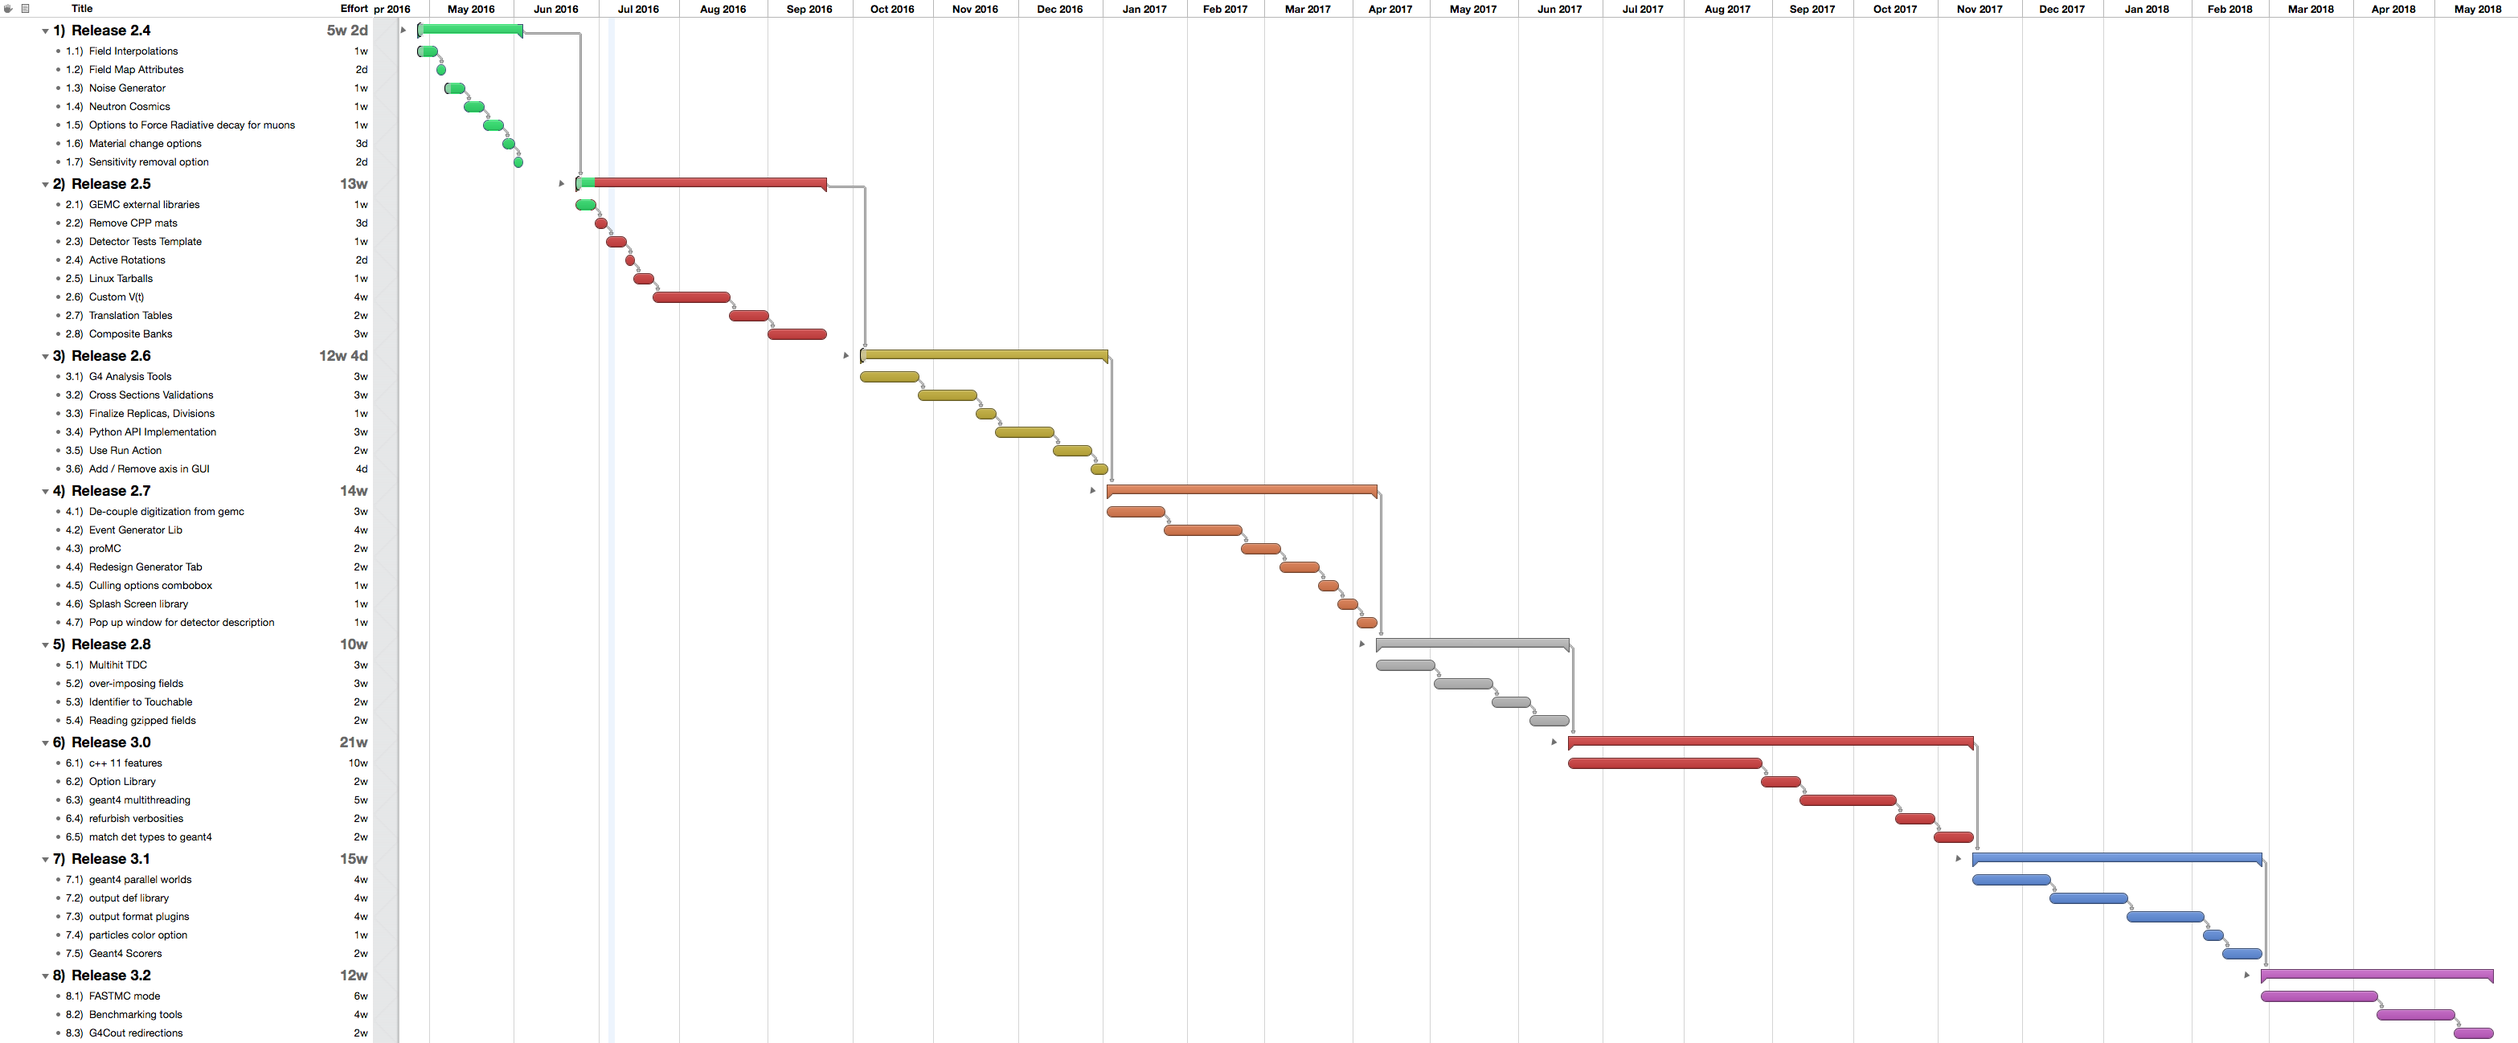
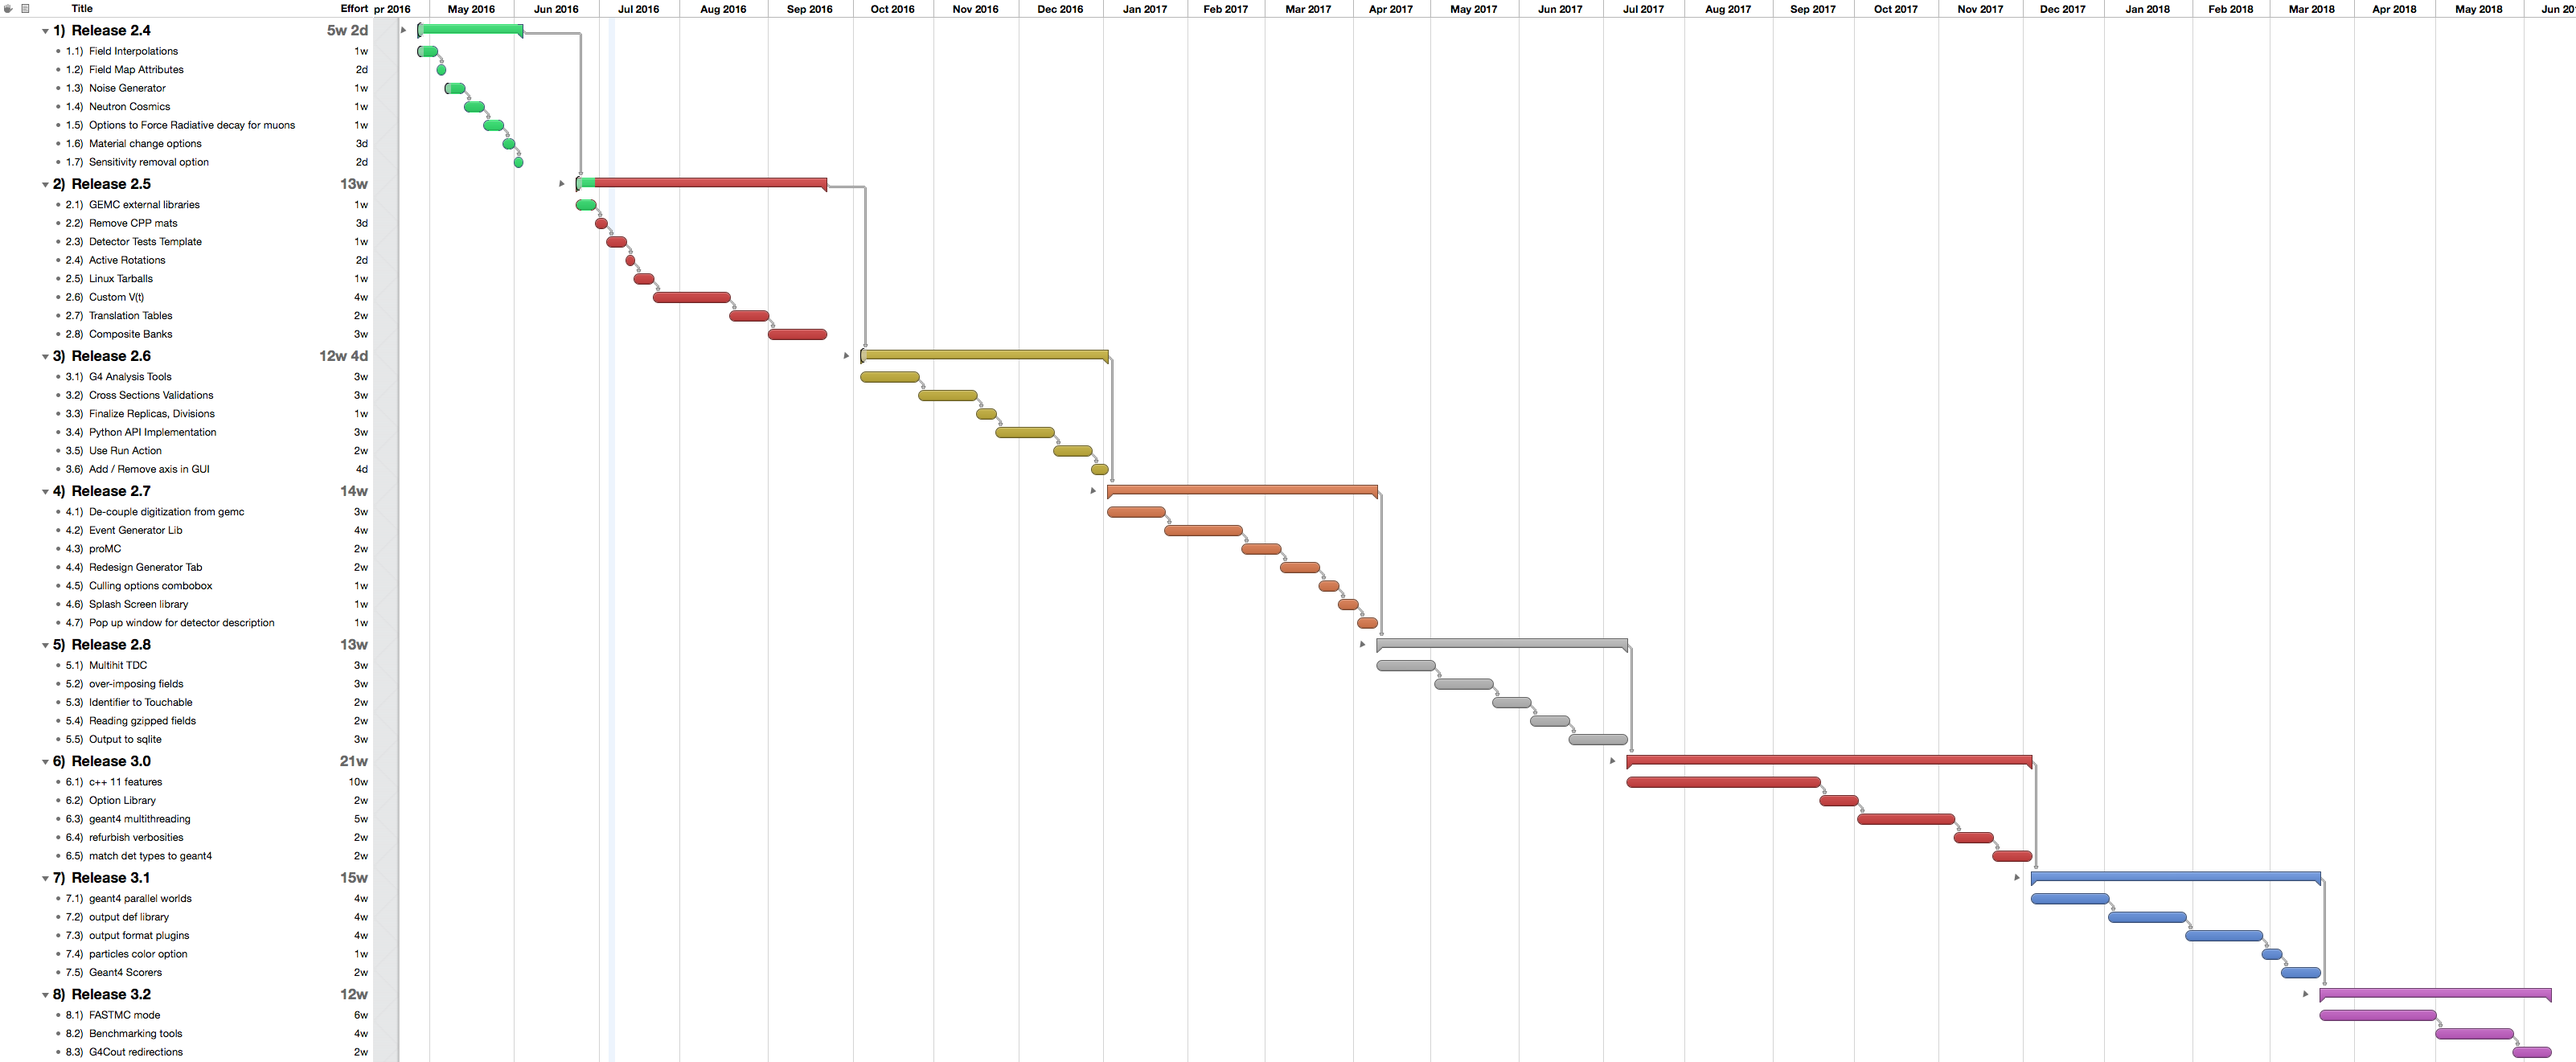
added sqlite api output

diff --git a/webPage/source/documentation/releases/roadmap.rst b/webPage/source/documentation/releases/roadmap.rst
@@ -39,15 +39,13 @@ GEMC 2.4 - June 2016 ✅
 GEMC 2.5 - September 2016
 -------------------------
 
-- Gemc external Libraries
+- Gemc external Libraries ✅
 
-- remove more obsolete cpp materials.
+- Remove more obsolete cpp materials.
 
 - Test Template for individual detectors.
 
-- add physical volume constructor - active rotations.
-
-- Linux Tarballs.
+- Add physical volume constructor - active rotations.
 
 - **Custom V(t)**:
   Currently a Voltage vs time V(t) function is provided by gemc, based on a user parameterization
@@ -65,6 +63,7 @@ GEMC 2.5 - September 2016
 
 - Output format will match the composite banks of the JLab data acquisition group.
 
+- Linux Tarballs.
 
 GEMC 2.6 - January 2017
 -----------------------
@@ -112,6 +111,8 @@ GEMC 2.8 - June 2017
   Have the vector<id> inside it, instead of passing vectors of identifier.
 
 - Read Gzipped field maps
+
+- API to sqlite
 
 GEMC 3.0 - October 2017
 -----------------------
